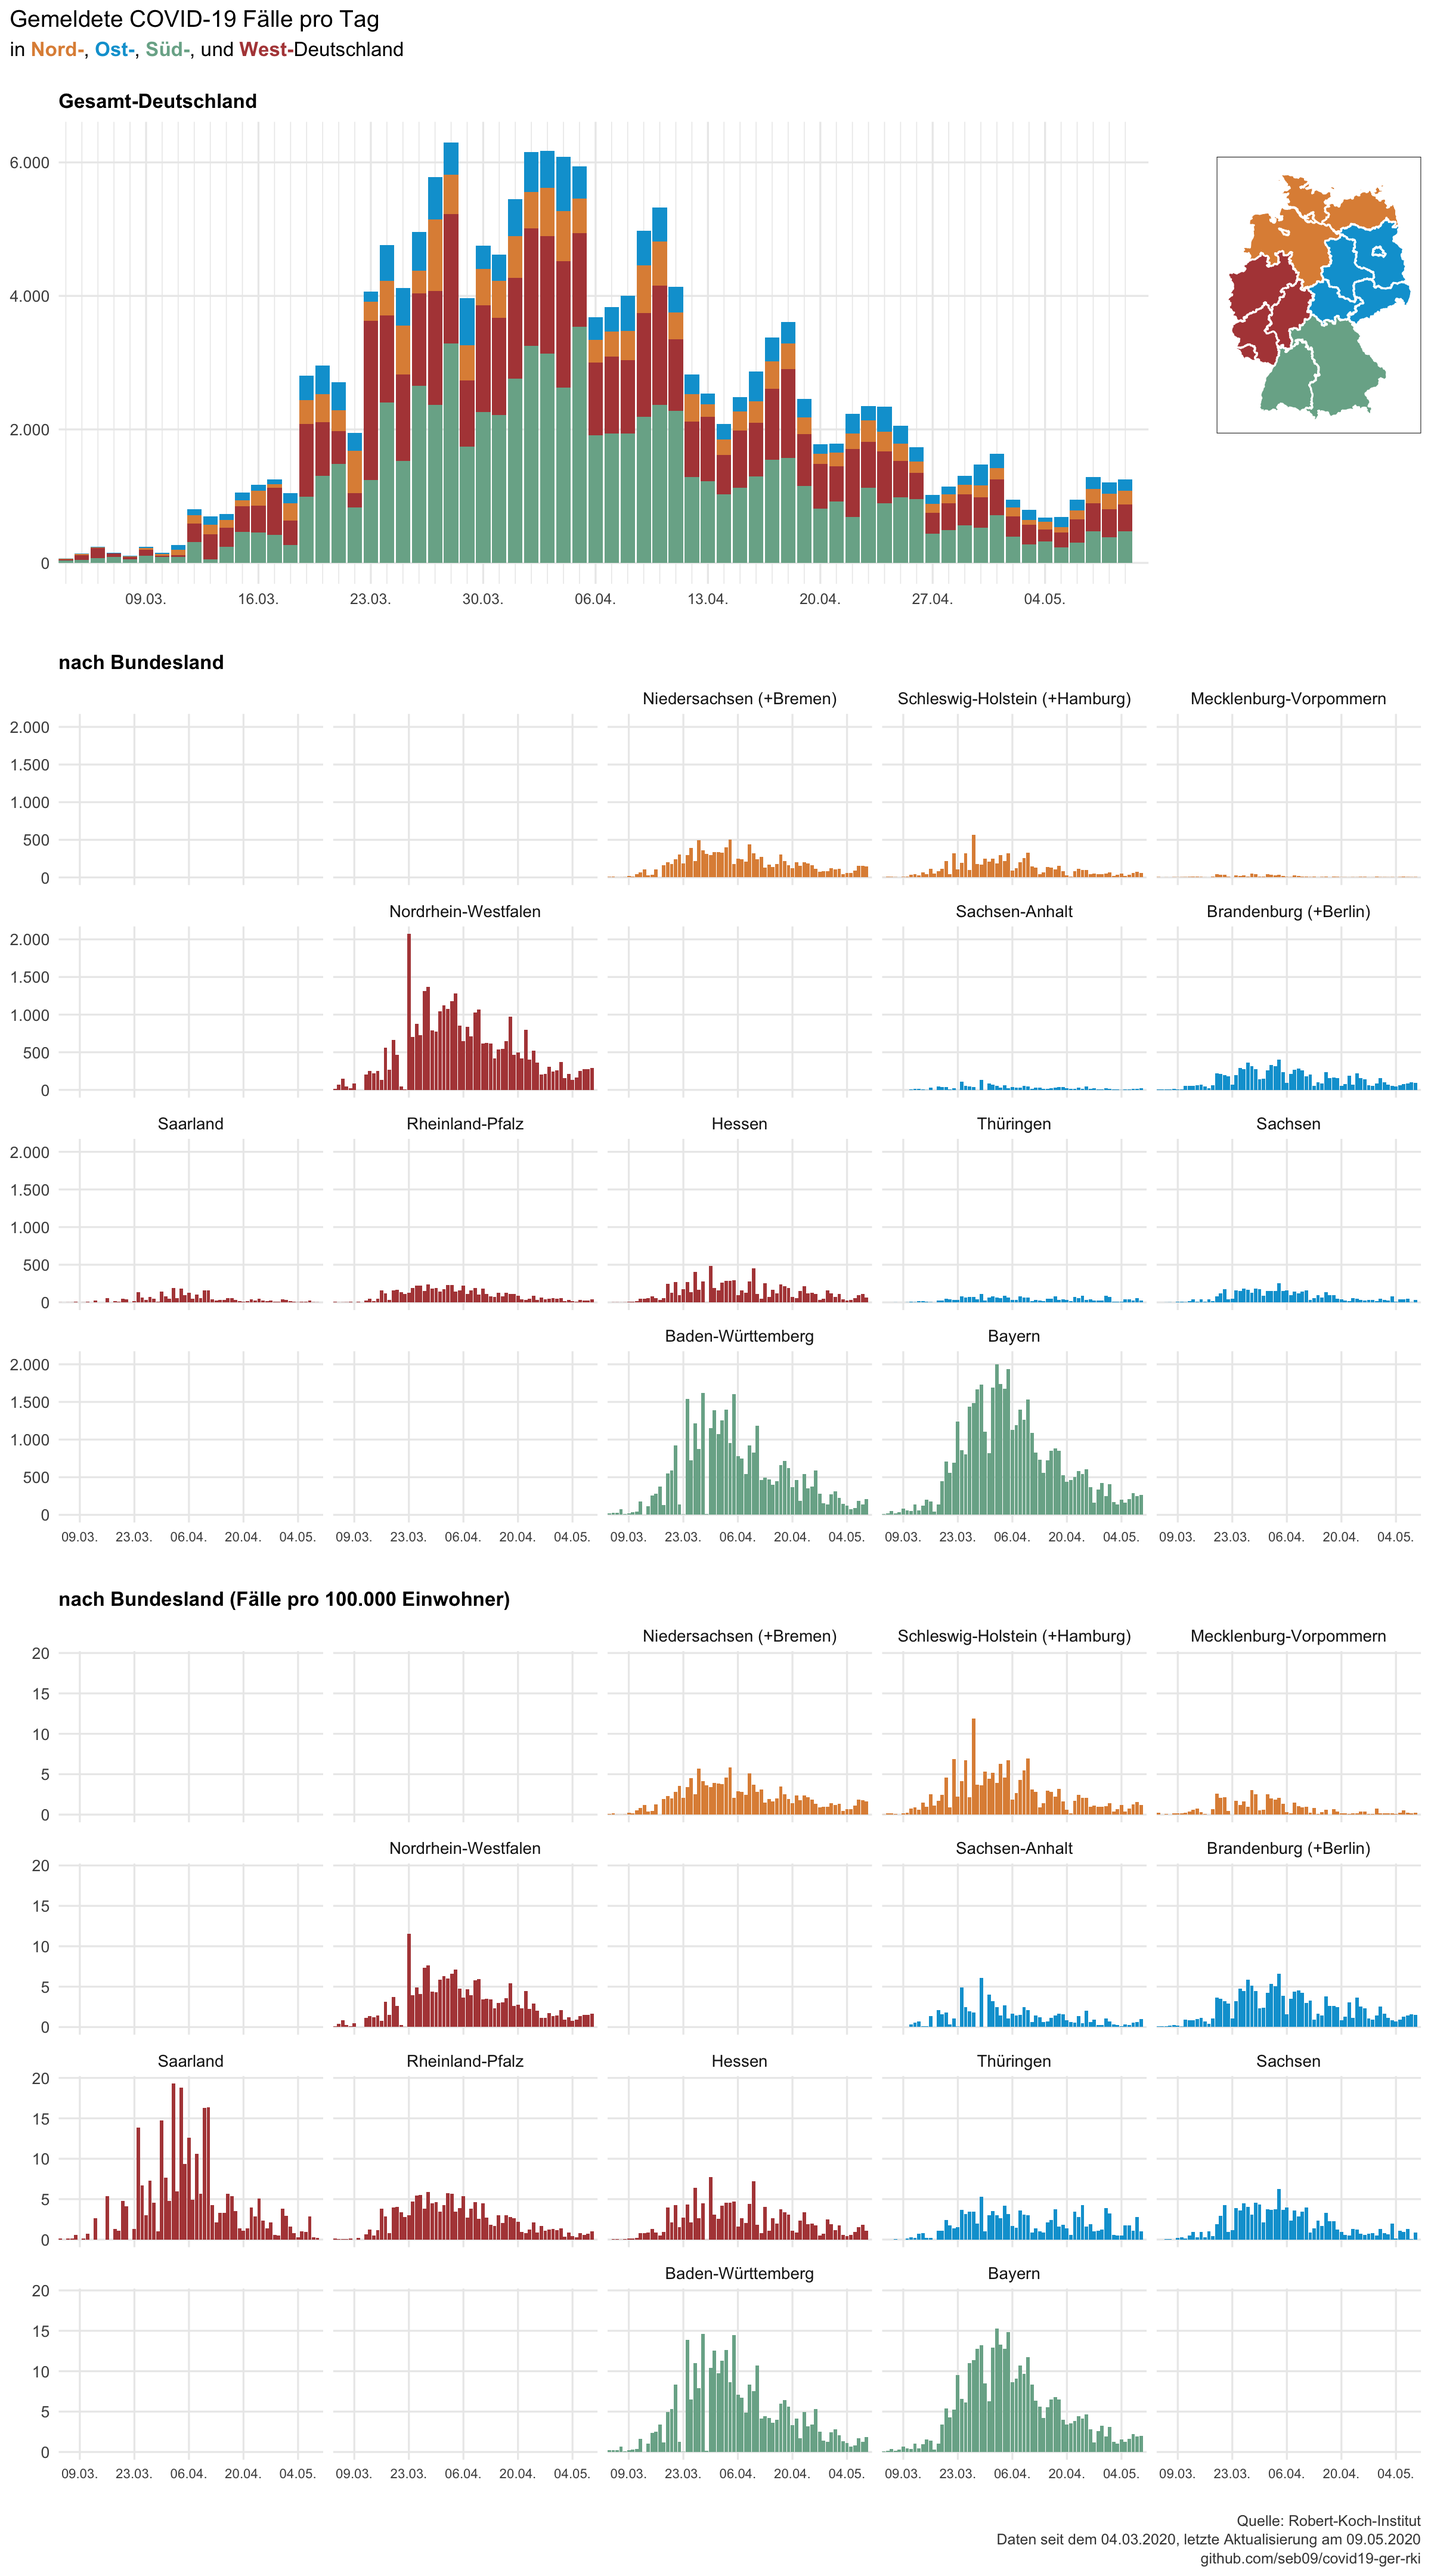
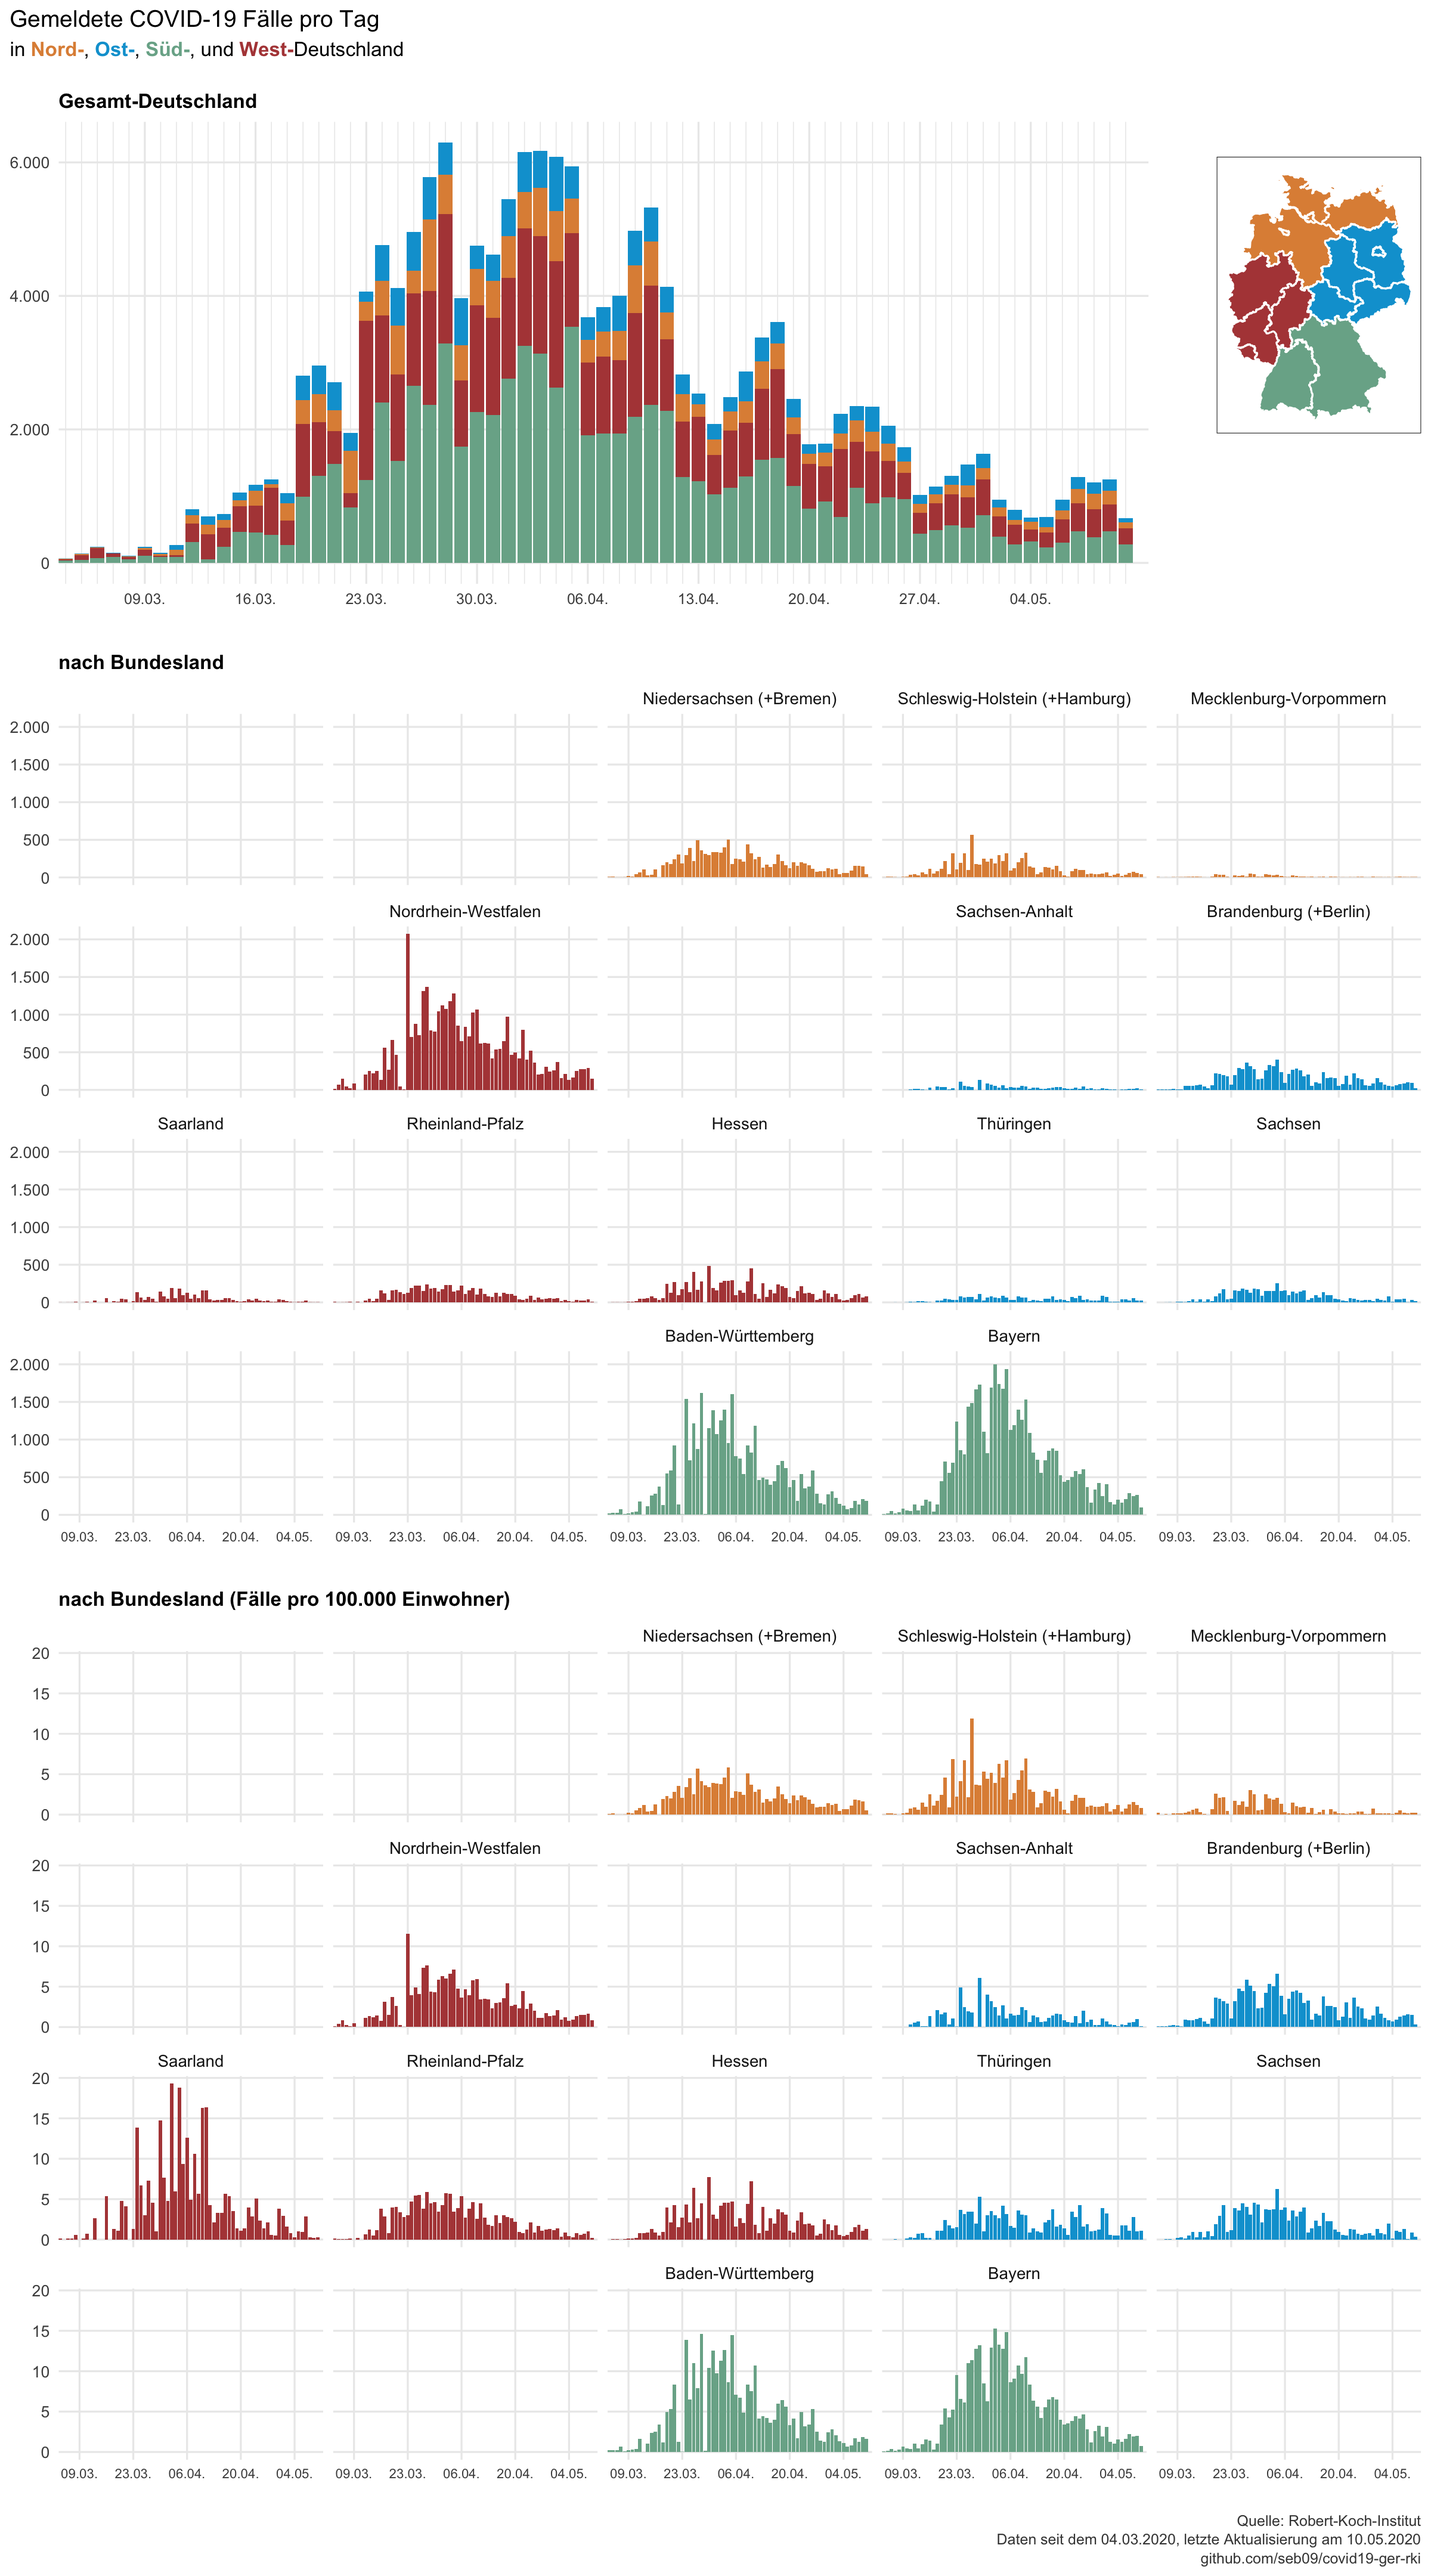
daily update 2020-05-10

diff --git a/README.md b/README.md
@@ -1,6 +1,6 @@
 Data from the Robert-Koch-Institut on COVID-19 in Germany
 ================
-Last update: 2020-05-09
+Last update: 2020-05-10
 
 This repository contains data on reported COVID-19 cases in Germany and
 its federal states that is published daily by the Robert-Koch-Institut
@@ -14,26 +14,26 @@ corona_rki %>%
   print(n = 16)
 ```
 
-    ## # A tibble: 1,066 x 6
+    ## # A tibble: 1,082 x 6
     ##    Datum      Bundesland      Fallzahl Todeszahl Fallzahl_neu Todeszahl_neu
     ##    <date>     <chr>              <dbl>     <dbl>        <dbl>         <dbl>
-    ##  1 2020-05-09 Baden-Württemb…    33105      1534          207            19
-    ##  2 2020-05-09 Bayern             44169      2147          264            33
-    ##  3 2020-05-09 Berlin              6242       164           33             1
-    ##  4 2020-05-09 Brandenburg         3098       133           61             2
-    ##  5 2020-05-09 Bremen              1024        32           27             0
-    ##  6 2020-05-09 Hamburg             4772       204           19             3
-    ##  7 2020-05-09 Hessen              8916       408           66             5
-    ##  8 2020-05-09 Mecklenburg-Vo…      722        19            4             0
-    ##  9 2020-05-09 Niedersachsen      10803       496          117             3
-    ## 10 2020-05-09 Nordrhein-West…    34817      1424          295            27
-    ## 11 2020-05-09 Rheinland-Pfalz     6282       195           41             3
-    ## 12 2020-05-09 Saarland            2660       142            2             2
-    ## 13 2020-05-09 Sachsen             4873       186           34             2
-    ## 14 2020-05-09 Sachsen-Anhalt      1637        48           22             0
-    ## 15 2020-05-09 Schleswig-Hols…     2898       122           38             0
-    ## 16 2020-05-09 Thüringen           2533       115           21             3
-    ## # … with 1,050 more rows
+    ##  1 2020-05-10 Baden-Württemb…    33287      1542          182             8
+    ##  2 2020-05-10 Bayern             44265      2153           96             6
+    ##  3 2020-05-10 Berlin              6261       165           19             1
+    ##  4 2020-05-10 Brandenburg         3101       134            3             1
+    ##  5 2020-05-10 Bremen              1043        32           19             0
+    ##  6 2020-05-10 Hamburg             4772       204            0             0
+    ##  7 2020-05-10 Hessen              8998       411           82             3
+    ##  8 2020-05-10 Mecklenburg-Vo…      726        19            4             0
+    ##  9 2020-05-10 Niedersachsen      10827       498           24             2
+    ## 10 2020-05-10 Nordrhein-West…    34964      1425          147             1
+    ## 11 2020-05-10 Rheinland-Pfalz     6291       195            9             0
+    ## 12 2020-05-10 Saarland            2663       142            3             0
+    ## 13 2020-05-10 Sachsen             4886       187           13             1
+    ## 14 2020-05-10 Sachsen-Anhalt      1640        48            3             0
+    ## 15 2020-05-10 Schleswig-Hols…     2938       123           40             1
+    ## 16 2020-05-10 Thüringen           2556       117           23             2
+    ## # … with 1,066 more rows
 
 Data is downloaded each day at 11am from the [website of the
 RKI](https://www.rki.de/DE/Content/InfAZ/N/Neuartiges_Coronavirus/Fallzahlen.html)
